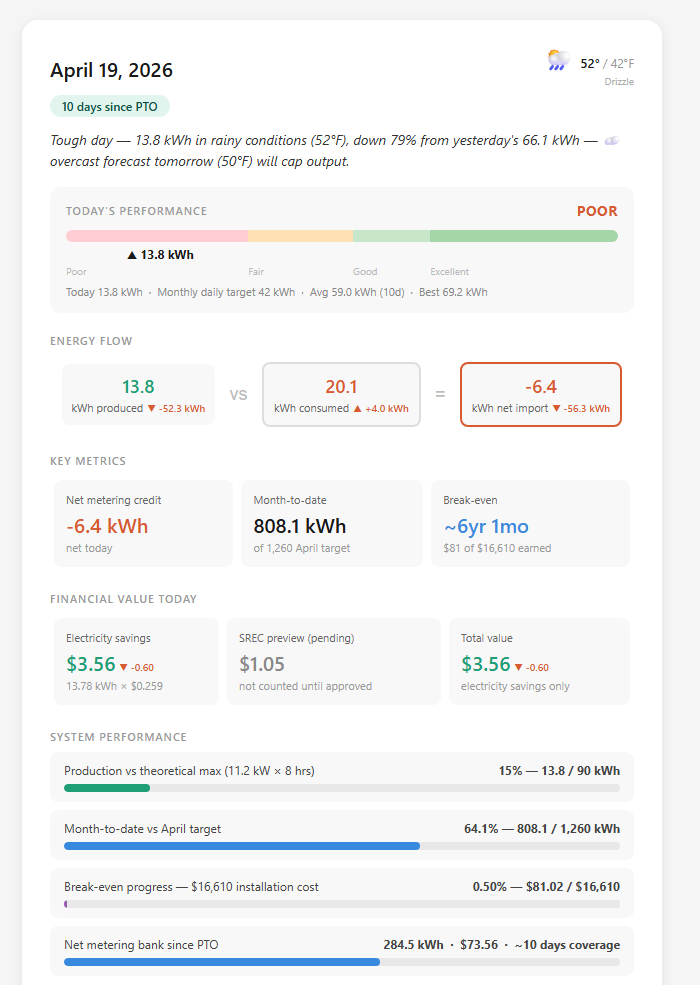
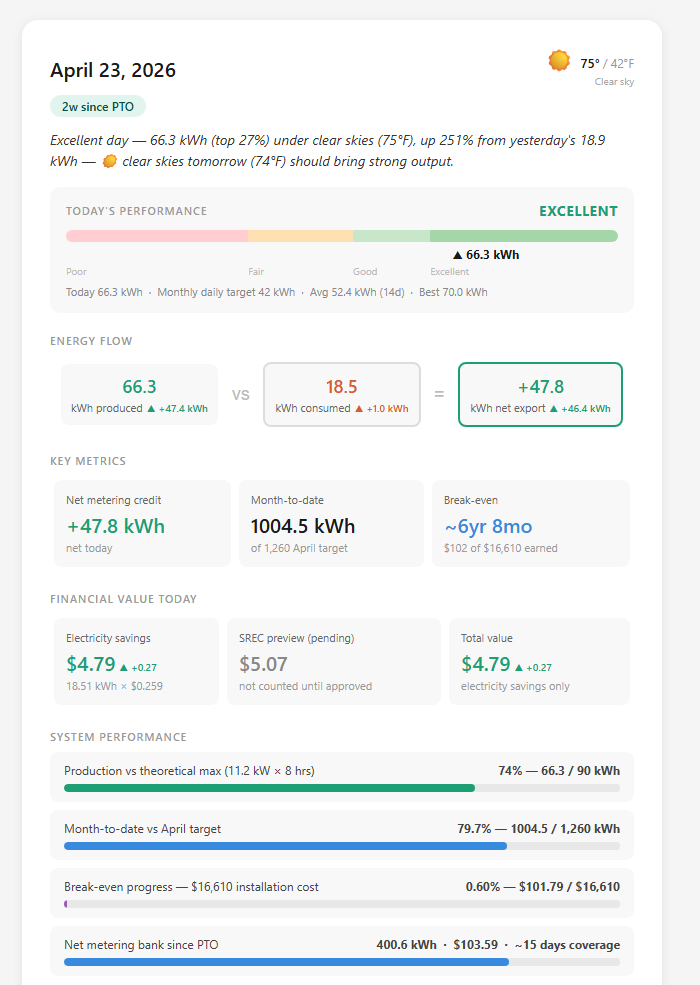
feat: add all-time production percentile to daily headline
Shows 'top X%' ranking inline in the headline summary, e.g.
'Excellent day — 66.3 kWh (top 27%) under clear skies...'.
Special cases: '🏆 best day yet' for rank 1, 'lowest day yet' for last place.
Updates README example and screenshot.

diff --git a/docs/email-report-demo.html b/docs/email-report-demo.html
@@ -3,7 +3,7 @@
 <head>
 <meta charset="UTF-8">
 <meta name="viewport" content="width=device-width,initial-scale=1">
-<title>Solar Report — April 19, 2026</title>
+<title>Solar Report — April 23, 2026</title>
 </head>
 <body style="margin:0;padding:0;background:#f5f5f5;font-family:-apple-system,BlinkMacSystemFont,'Segoe UI',Arial,sans-serif">
 
@@ -15,14 +15,14 @@
   <!-- Header -->
   <table width="100%" cellpadding="0" cellspacing="0" border="0" style="margin-bottom:6px">
     <tr>
-      <td style="font-size:20px;font-weight:600;color:#1a1a1a">April 19, 2026</td>
-      <td align="right" style="vertical-align:middle"><span style="font-size:22px;line-height:1">🌦</span><span style="font-size:13px;font-weight:600;color:#1a1a1a;margin-left:6px">52°</span><span style="font-size:12px;color:#999;margin-left:3px">/ 42°F</span><div style="font-size:10px;color:#aaa;text-align:right;margin-top:2px">Drizzle</div></td>
+      <td style="font-size:20px;font-weight:600;color:#1a1a1a">April 23, 2026</td>
+      <td align="right" style="vertical-align:middle"><span style="font-size:22px;line-height:1">☀</span><span style="font-size:13px;font-weight:600;color:#1a1a1a;margin-left:6px">75°</span><span style="font-size:12px;color:#999;margin-left:3px">/ 42°F</span><div style="font-size:10px;color:#aaa;text-align:right;margin-top:2px">Clear sky</div></td>
     </tr>
   </table>
-  <div style="display:inline-block;background:#E1F5EE;color:#085041;border-radius:20px;font-size:12px;font-weight:600;padding:3px 12px;margin-bottom:12px">10 days since PTO</div>
+  <div style="display:inline-block;background:#E1F5EE;color:#085041;border-radius:20px;font-size:12px;font-weight:600;padding:3px 12px;margin-bottom:12px">2w since PTO</div>
 
   <!-- Headline summary -->
-  <p style="margin:0 0 16px;font-size:14px;color:#333;font-style:italic;line-height:1.5;font-family:-apple-system,BlinkMacSystemFont,'Segoe UI',sans-serif">Tough day — 13.8 kWh in rainy conditions (52°F), down 79% from yesterday's 66.1 kWh — ☁ overcast forecast tomorrow (50°F) will cap output.</p>
+  <p style="margin:0 0 16px;font-size:14px;color:#333;font-style:italic;line-height:1.5;font-family:-apple-system,BlinkMacSystemFont,'Segoe UI',sans-serif">Excellent day — 66.3 kWh (top 27%) under clear skies (75°F), up 251% from yesterday's 18.9 kWh — ☀ clear skies tomorrow (74°F) should bring strong output.</p>
 
   <!-- Performance meter -->
   <table width="100%" cellpadding="0" cellspacing="0" border="0" style="background:#f8f8f8;border-radius:10px;margin-bottom:16px">
@@ -30,7 +30,7 @@
       <table width="100%" cellpadding="0" cellspacing="0" border="0" style="margin-bottom:10px">
         <tr>
           <td style="font-size:11px;font-weight:600;text-transform:uppercase;letter-spacing:0.08em;color:#999">Today's performance</td>
-          <td align="right" style="font-size:14px;font-weight:700;color:#D85A30;letter-spacing:0.04em">POOR</td>
+          <td align="right" style="font-size:14px;font-weight:700;color:#1D9E75;letter-spacing:0.04em">EXCELLENT</td>
         </tr>
       </table>
       <!-- Segmented colour bar -->
@@ -45,8 +45,8 @@
       <!-- Needle indicator as text marker -->
       <table width="100%" cellpadding="0" cellspacing="0" border="0">
         <tr>
-          <td width="11%" style="font-size:0">&nbsp;</td>
-          <td style="font-size:12px;color:#1a1a1a;font-weight:700;white-space:nowrap">&#9650; 13.8 kWh</td>
+          <td width="70%" style="font-size:0">&nbsp;</td>
+          <td style="font-size:12px;color:#1a1a1a;font-weight:700;white-space:nowrap">&#9650; 66.3 kWh</td>
         </tr>
       </table>
       <table width="100%" cellpadding="0" cellspacing="0" border="0" style="margin-top:2px">
@@ -57,7 +57,7 @@
           <td style="font-size:10px;color:#bbb">Excellent</td>
         </tr>
       </table>
-      <p style="font-size:11px;color:#888;margin:6px 0 0">Today 13.8 kWh &nbsp;·&nbsp; Monthly daily target 42 kWh &nbsp;·&nbsp; Avg 59.0 kWh (10d) &nbsp;·&nbsp; Best 69.2 kWh</p>
+      <p style="font-size:11px;color:#888;margin:6px 0 0">Today 66.3 kWh &nbsp;·&nbsp; Monthly daily target 42 kWh &nbsp;·&nbsp; Avg 52.4 kWh (14d) &nbsp;·&nbsp; Best 70.0 kWh</p>
     </td></tr>
   </table>
 
@@ -67,11 +67,11 @@
     <tr><td align="center" style="padding:6px">
   <table cellpadding="10" cellspacing="0" border="0" style="background:#f8f8f8;border-radius:8px;min-width:70px">
     <tr><td align="center" style="font-family:-apple-system,BlinkMacSystemFont,'Segoe UI',sans-serif">
-      <div style="font-size:18px;font-weight:600;color:#1D9E75">13.8</div>
-      <div style="font-size:11px;color:#666;margin-top:2px;white-space:nowrap">kWh produced<span style="font-size:10px;font-weight:600;color:#D85A30;margin-left:4px;white-space:nowrap">▼ -52.3 kWh</span></div>
+      <div style="font-size:18px;font-weight:600;color:#1D9E75">66.3</div>
+      <div style="font-size:11px;color:#666;margin-top:2px;white-space:nowrap">kWh produced<span style="font-size:10px;font-weight:600;color:#1D9E75;margin-left:4px;white-space:nowrap">▲ +47.4 kWh</span></div>
     </td></tr>
   </table>
-</td><td align="center" style="font-size:18px;color:#bbb;padding:0 2px;font-family:sans-serif">vs</td><td align="center" style="padding:6px"><table cellpadding="10" cellspacing="0" border="0" style="background:#f8f8f8;border-radius:8px;min-width:70px;border:2px solid #ddd"><tr><td align="center" style="font-family:-apple-system,BlinkMacSystemFont,'Segoe UI',sans-serif"><div style="font-size:18px;font-weight:600;color:#D85A30">20.1</div><div style="font-size:11px;color:#666;margin-top:2px">kWh consumed<span style="font-size:10px;font-weight:600;color:#D85A30;margin-left:4px;white-space:nowrap">▲ +4.0 kWh</span></div></td></tr></table></td><td align="center" style="font-size:18px;color:#bbb;padding:0 2px;font-family:sans-serif">=</td><td align="center" style="padding:6px"><table cellpadding="10" cellspacing="0" border="0" style="background:#f8f8f8;border-radius:8px;min-width:70px;border:2px solid #D85A30"><tr><td align="center" style="font-family:-apple-system,BlinkMacSystemFont,'Segoe UI',sans-serif"><div style="font-size:18px;font-weight:600;color:#D85A30">-6.4</div><div style="font-size:11px;color:#666;margin-top:2px">kWh net import<span style="font-size:10px;font-weight:600;color:#D85A30;margin-left:4px;white-space:nowrap">▼ -56.3 kWh</span></div></td></tr></table></td></tr>
+</td><td align="center" style="font-size:18px;color:#bbb;padding:0 2px;font-family:sans-serif">vs</td><td align="center" style="padding:6px"><table cellpadding="10" cellspacing="0" border="0" style="background:#f8f8f8;border-radius:8px;min-width:70px;border:2px solid #ddd"><tr><td align="center" style="font-family:-apple-system,BlinkMacSystemFont,'Segoe UI',sans-serif"><div style="font-size:18px;font-weight:600;color:#D85A30">18.5</div><div style="font-size:11px;color:#666;margin-top:2px">kWh consumed<span style="font-size:10px;font-weight:600;color:#D85A30;margin-left:4px;white-space:nowrap">▲ +1.0 kWh</span></div></td></tr></table></td><td align="center" style="font-size:18px;color:#bbb;padding:0 2px;font-family:sans-serif">=</td><td align="center" style="padding:6px"><table cellpadding="10" cellspacing="0" border="0" style="background:#f8f8f8;border-radius:8px;min-width:70px;border:2px solid #1D9E75"><tr><td align="center" style="font-family:-apple-system,BlinkMacSystemFont,'Segoe UI',sans-serif"><div style="font-size:18px;font-weight:600;color:#1D9E75">+47.8</div><div style="font-size:11px;color:#666;margin-top:2px">kWh net export<span style="font-size:10px;font-weight:600;color:#1D9E75;margin-left:4px;white-space:nowrap">▲ +46.4 kWh</span></div></td></tr></table></td></tr>
   </table>
 
   <!-- Key metrics -->
@@ -82,7 +82,7 @@
   <table width="100%" cellpadding="12" cellspacing="0" border="0" style="background:#f8f8f8;border-radius:8px">
     <tr><td style="font-family:-apple-system,BlinkMacSystemFont,'Segoe UI',sans-serif">
       <div style="font-size:11px;color:#666;margin-bottom:4px">Net metering credit</div>
-      <div style="font-size:20px;font-weight:600;color:#D85A30;margin-bottom:2px">-6.4 kWh</div>
+      <div style="font-size:20px;font-weight:600;color:#1D9E75;margin-bottom:2px">+47.8 kWh</div>
       <div style="font-size:11px;color:#999">net today</div>
     </td></tr>
   </table>
@@ -91,7 +91,7 @@
   <table width="100%" cellpadding="12" cellspacing="0" border="0" style="background:#f8f8f8;border-radius:8px">
     <tr><td style="font-family:-apple-system,BlinkMacSystemFont,'Segoe UI',sans-serif">
       <div style="font-size:11px;color:#666;margin-bottom:4px">Month-to-date</div>
-      <div style="font-size:20px;font-weight:600;color:#1a1a1a;margin-bottom:2px">808.1 kWh</div>
+      <div style="font-size:20px;font-weight:600;color:#1a1a1a;margin-bottom:2px">1004.5 kWh</div>
       <div style="font-size:11px;color:#999">of 1,260 April target</div>
     </td></tr>
   </table>
@@ -100,8 +100,8 @@
   <table width="100%" cellpadding="12" cellspacing="0" border="0" style="background:#f8f8f8;border-radius:8px">
     <tr><td style="font-family:-apple-system,BlinkMacSystemFont,'Segoe UI',sans-serif">
       <div style="font-size:11px;color:#666;margin-bottom:4px">Break-even</div>
-      <div style="font-size:20px;font-weight:600;color:#378ADD;margin-bottom:2px">~6yr 1mo</div>
-      <div style="font-size:11px;color:#999">$81 of $16,610 earned</div>
+      <div style="font-size:20px;font-weight:600;color:#378ADD;margin-bottom:2px">~6yr 8mo</div>
+      <div style="font-size:11px;color:#999">$102 of $16,610 earned</div>
     </td></tr>
   </table>
 </td>
@@ -116,8 +116,8 @@
   <table width="100%" cellpadding="12" cellspacing="0" border="0" style="background:#f8f8f8;border-radius:8px">
     <tr><td style="font-family:-apple-system,BlinkMacSystemFont,'Segoe UI',sans-serif">
       <div style="font-size:11px;color:#666;margin-bottom:4px">Electricity savings</div>
-      <div style="font-size:20px;font-weight:600;color:#1D9E75;margin-bottom:2px">$3.56<span style="font-size:10px;font-weight:600;color:#D85A30;margin-left:4px;white-space:nowrap">▼ -0.60</span></div>
-      <div style="font-size:11px;color:#999">13.78 kWh × $0.259</div>
+      <div style="font-size:20px;font-weight:600;color:#1D9E75;margin-bottom:2px">$4.79<span style="font-size:10px;font-weight:600;color:#1D9E75;margin-left:4px;white-space:nowrap">▲ +0.27</span></div>
+      <div style="font-size:11px;color:#999">18.51 kWh × $0.259</div>
     </td></tr>
   </table>
 </td>
@@ -125,7 +125,7 @@
   <table width="100%" cellpadding="12" cellspacing="0" border="0" style="background:#f8f8f8;border-radius:8px">
     <tr><td style="font-family:-apple-system,BlinkMacSystemFont,'Segoe UI',sans-serif">
       <div style="font-size:11px;color:#666;margin-bottom:4px">SREC preview (pending)</div>
-      <div style="font-size:20px;font-weight:600;color:#888888;margin-bottom:2px">$1.05</div>
+      <div style="font-size:20px;font-weight:600;color:#888888;margin-bottom:2px">$5.07</div>
       <div style="font-size:11px;color:#999">not counted until approved</div>
     </td></tr>
   </table>
@@ -134,7 +134,7 @@
   <table width="100%" cellpadding="12" cellspacing="0" border="0" style="background:#f8f8f8;border-radius:8px">
     <tr><td style="font-family:-apple-system,BlinkMacSystemFont,'Segoe UI',sans-serif">
       <div style="font-size:11px;color:#666;margin-bottom:4px">Total value</div>
-      <div style="font-size:20px;font-weight:600;color:#1D9E75;margin-bottom:2px">$3.56<span style="font-size:10px;font-weight:600;color:#D85A30;margin-left:4px;white-space:nowrap">▼ -0.60</span></div>
+      <div style="font-size:20px;font-weight:600;color:#1D9E75;margin-bottom:2px">$4.79<span style="font-size:10px;font-weight:600;color:#1D9E75;margin-left:4px;white-space:nowrap">▲ +0.27</span></div>
       <div style="font-size:11px;color:#999">electricity savings only</div>
     </td></tr>
   </table>
@@ -149,10 +149,10 @@
     <table width="100%" cellpadding="0" cellspacing="0" border="0" style="margin-bottom:6px">
       <tr>
         <td style="font-size:12px;color:#444">Production vs theoretical max (11.2 kW × 8 hrs)</td>
-        <td align="right" style="font-size:12px;color:#444;white-space:nowrap"><strong>15% &mdash; 13.8 / 90 kWh</strong></td>
+        <td align="right" style="font-size:12px;color:#444;white-space:nowrap"><strong>74% &mdash; 66.3 / 90 kWh</strong></td>
       </tr>
     </table>
-    <table width="100%" cellpadding="0" cellspacing="0" border="0" style="border-radius:4px;overflow:hidden;background:#e8e8e8"><tr><td width="15.4%" style="height:8px;background:#1D9E75;border-radius:4px;line-height:0;font-size:0">&nbsp;</td><td width="84.6%" style="height:8px;background:#e8e8e8;line-height:0;font-size:0">&nbsp;</td></tr></table>
+    <table width="100%" cellpadding="0" cellspacing="0" border="0" style="border-radius:4px;overflow:hidden;background:#e8e8e8"><tr><td width="74.0%" style="height:8px;background:#1D9E75;border-radius:4px;line-height:0;font-size:0">&nbsp;</td><td width="26.0%" style="height:8px;background:#e8e8e8;line-height:0;font-size:0">&nbsp;</td></tr></table>
   </td></tr>
 </table>
   <table width="100%" cellpadding="0" cellspacing="0" border="0" style="background:#f8f8f8;border-radius:8px;margin-bottom:8px">
@@ -160,10 +160,10 @@
     <table width="100%" cellpadding="0" cellspacing="0" border="0" style="margin-bottom:6px">
       <tr>
         <td style="font-size:12px;color:#444">Month-to-date vs April target</td>
-        <td align="right" style="font-size:12px;color:#444;white-space:nowrap"><strong>64.1% &mdash; 808.1 / 1,260 kWh</strong></td>
+        <td align="right" style="font-size:12px;color:#444;white-space:nowrap"><strong>79.7% &mdash; 1004.5 / 1,260 kWh</strong></td>
       </tr>
     </table>
-    <table width="100%" cellpadding="0" cellspacing="0" border="0" style="border-radius:4px;overflow:hidden;background:#e8e8e8"><tr><td width="64.1%" style="height:8px;background:#378ADD;border-radius:4px;line-height:0;font-size:0">&nbsp;</td><td width="35.900000000000006%" style="height:8px;background:#e8e8e8;line-height:0;font-size:0">&nbsp;</td></tr></table>
+    <table width="100%" cellpadding="0" cellspacing="0" border="0" style="border-radius:4px;overflow:hidden;background:#e8e8e8"><tr><td width="79.7%" style="height:8px;background:#378ADD;border-radius:4px;line-height:0;font-size:0">&nbsp;</td><td width="20.299999999999997%" style="height:8px;background:#e8e8e8;line-height:0;font-size:0">&nbsp;</td></tr></table>
   </td></tr>
 </table>
   <table width="100%" cellpadding="0" cellspacing="0" border="0" style="background:#f8f8f8;border-radius:8px;margin-bottom:8px">
@@ -171,10 +171,10 @@
     <table width="100%" cellpadding="0" cellspacing="0" border="0" style="margin-bottom:6px">
       <tr>
         <td style="font-size:12px;color:#444">Break-even progress &mdash; $16,610 installation cost</td>
-        <td align="right" style="font-size:12px;color:#444;white-space:nowrap"><strong>0.50% &mdash; $81.02 / $16,610</strong></td>
+        <td align="right" style="font-size:12px;color:#444;white-space:nowrap"><strong>0.60% &mdash; $101.79 / $16,610</strong></td>
       </tr>
     </table>
-    <table width="100%" cellpadding="0" cellspacing="0" border="0" style="border-radius:4px;overflow:hidden;background:#e8e8e8"><tr><td width="0.5%" style="height:8px;background:#9B59B6;border-radius:4px;line-height:0;font-size:0">&nbsp;</td><td width="99.5%" style="height:8px;background:#e8e8e8;line-height:0;font-size:0">&nbsp;</td></tr></table>
+    <table width="100%" cellpadding="0" cellspacing="0" border="0" style="border-radius:4px;overflow:hidden;background:#e8e8e8"><tr><td width="0.6%" style="height:8px;background:#9B59B6;border-radius:4px;line-height:0;font-size:0">&nbsp;</td><td width="99.4%" style="height:8px;background:#e8e8e8;line-height:0;font-size:0">&nbsp;</td></tr></table>
   </td></tr>
 </table>
   <table width="100%" cellpadding="0" cellspacing="0" border="0" style="background:#f8f8f8;border-radius:8px;margin-bottom:8px">
@@ -182,10 +182,10 @@
     <table width="100%" cellpadding="0" cellspacing="0" border="0" style="margin-bottom:6px">
       <tr>
         <td style="font-size:12px;color:#444">Net metering bank since PTO</td>
-        <td align="right" style="font-size:12px;color:#444;white-space:nowrap"><strong>284.5 kWh &nbsp;&middot;&nbsp; $73.56 &nbsp;&middot;&nbsp; ~10 days coverage</strong></td>
+        <td align="right" style="font-size:12px;color:#444;white-space:nowrap"><strong>400.6 kWh &nbsp;&middot;&nbsp; $103.59 &nbsp;&middot;&nbsp; ~15 days coverage</strong></td>
       </tr>
     </table>
-    <table width="100%" cellpadding="0" cellspacing="0" border="0" style="border-radius:4px;overflow:hidden;background:#e8e8e8"><tr><td width="56.9%" style="height:8px;background:#378ADD;border-radius:4px;line-height:0;font-size:0">&nbsp;</td><td width="43.1%" style="height:8px;background:#e8e8e8;line-height:0;font-size:0">&nbsp;</td></tr></table>
+    <table width="100%" cellpadding="0" cellspacing="0" border="0" style="border-radius:4px;overflow:hidden;background:#e8e8e8"><tr><td width="80.1%" style="height:8px;background:#378ADD;border-radius:4px;line-height:0;font-size:0">&nbsp;</td><td width="19.900000000000006%" style="height:8px;background:#e8e8e8;line-height:0;font-size:0">&nbsp;</td></tr></table>
   </td></tr>
 </table>
 

diff --git a/email_builder.py b/email_builder.py
@@ -139,7 +139,8 @@ def _fetch_forecast(d: str, lat: float, lon: float) -> dict | None:
     return None
 
 
-def _headline_daily(produced: float, prev, weather, forecast, daily_target: float) -> str:
+def _headline_daily(produced: float, prev, weather, forecast, daily_target: float,
+                    rank: int = 0, rank_total: int = 0) -> str:
     """Build a punchy one-sentence headline for the daily email."""
     # Rating opener
     ratio = produced / daily_target if daily_target else 0
@@ -204,7 +205,17 @@ def _headline_daily(produced: float, prev, weather, forecast, daily_target: floa
         else:
             tmrw_part = f" — {forecast['emoji']} {forecast['desc'].lower()} tomorrow ({hi}°F)."
 
-    return f"{opener} — {produced:.1f} kWh{wx_part}{delta_part}{tmrw_part}"
+    rank_part = ""
+    if rank and rank_total:
+        if rank == 1:
+            rank_part = " (🏆 best day yet)"
+        elif rank == rank_total:
+            rank_part = " (lowest day yet)"
+        else:
+            pct = round(rank / rank_total * 100)
+            rank_part = f" (top {pct}%)"
+
+    return f"{opener} — {produced:.1f} kWh{rank_part}{wx_part}{delta_part}{tmrw_part}"
 
 CONFIG_PATH = Path(__file__).parent / "config.json"
 
@@ -413,19 +424,29 @@ def build_email(target_date: str) -> str:
     else:
         rating, rating_color = "POOR", C_RED
 
-    # Headline summary
-    headline = _headline_daily(produced, prev, weather, forecast, daily_target)
-
-    # Historical context line
+    # Historical context line + rank
     conn = database.get_conn()
     hist = conn.execute(
         "SELECT AVG(produced) as avg, MAX(produced) as best, COUNT(*) as cnt "
         "FROM daily_readings WHERE date < ?", (d,)
     ).fetchone()
+    rank_row = conn.execute(
+        "SELECT COUNT(*) as total, SUM(CASE WHEN produced > ? THEN 1 ELSE 0 END) as above "
+        "FROM daily_readings WHERE date <= ?",
+        (produced, d)
+    ).fetchone()
     conn.close()
     hist_line = ""
     if hist and hist["cnt"] and hist["cnt"] > 0:
         hist_line = f" &nbsp;·&nbsp; Avg {hist['avg']:.1f} kWh ({hist['cnt']}d) &nbsp;·&nbsp; Best {hist['best']:.1f} kWh"
+
+    rank, rank_total = 0, 0
+    if rank_row and rank_row["total"]:
+        rank_total = rank_row["total"]
+        rank       = (rank_row["above"] or 0) + 1
+
+    # Headline summary
+    headline = _headline_daily(produced, prev, weather, forecast, daily_target, rank, rank_total)
 
     # ------------------------------------------------------------------ #
     # Flow row cells

diff --git a/README.md b/README.md
@@ -11,7 +11,7 @@ Sent every morning at 5am covering the previous day.
 
 ![Daily email report](docs/screenshot-email.png)
 
-- **Headline summary** — punchy one-sentence digest: today's rating + weather context + % change vs yesterday + tomorrow's forecast (e.g. *"Tough day — 13.8 kWh in rainy conditions (52°F), down 79% from yesterday's 66.1 kWh — ☁ overcast forecast tomorrow (50°F) will cap output."*)
+- **Headline summary** — punchy one-sentence digest: today's rating + all-time percentile + weather context + % change vs yesterday + tomorrow's forecast (e.g. *"Excellent day — 66.3 kWh (top 27%) under clear skies (75°F), up 251% from yesterday's 18.9 kWh — ☀ clear skies tomorrow (74°F) should bring strong output."*)
 - **Weather** — daily high/low and conditions in the top-right corner (Open-Meteo, no key required)
 - **Performance meter** — colour-banded gauge rating production as Poor / Fair / Good / Excellent vs. monthly daily target
 - **Energy flow** — produced vs. consumed with net export/import
